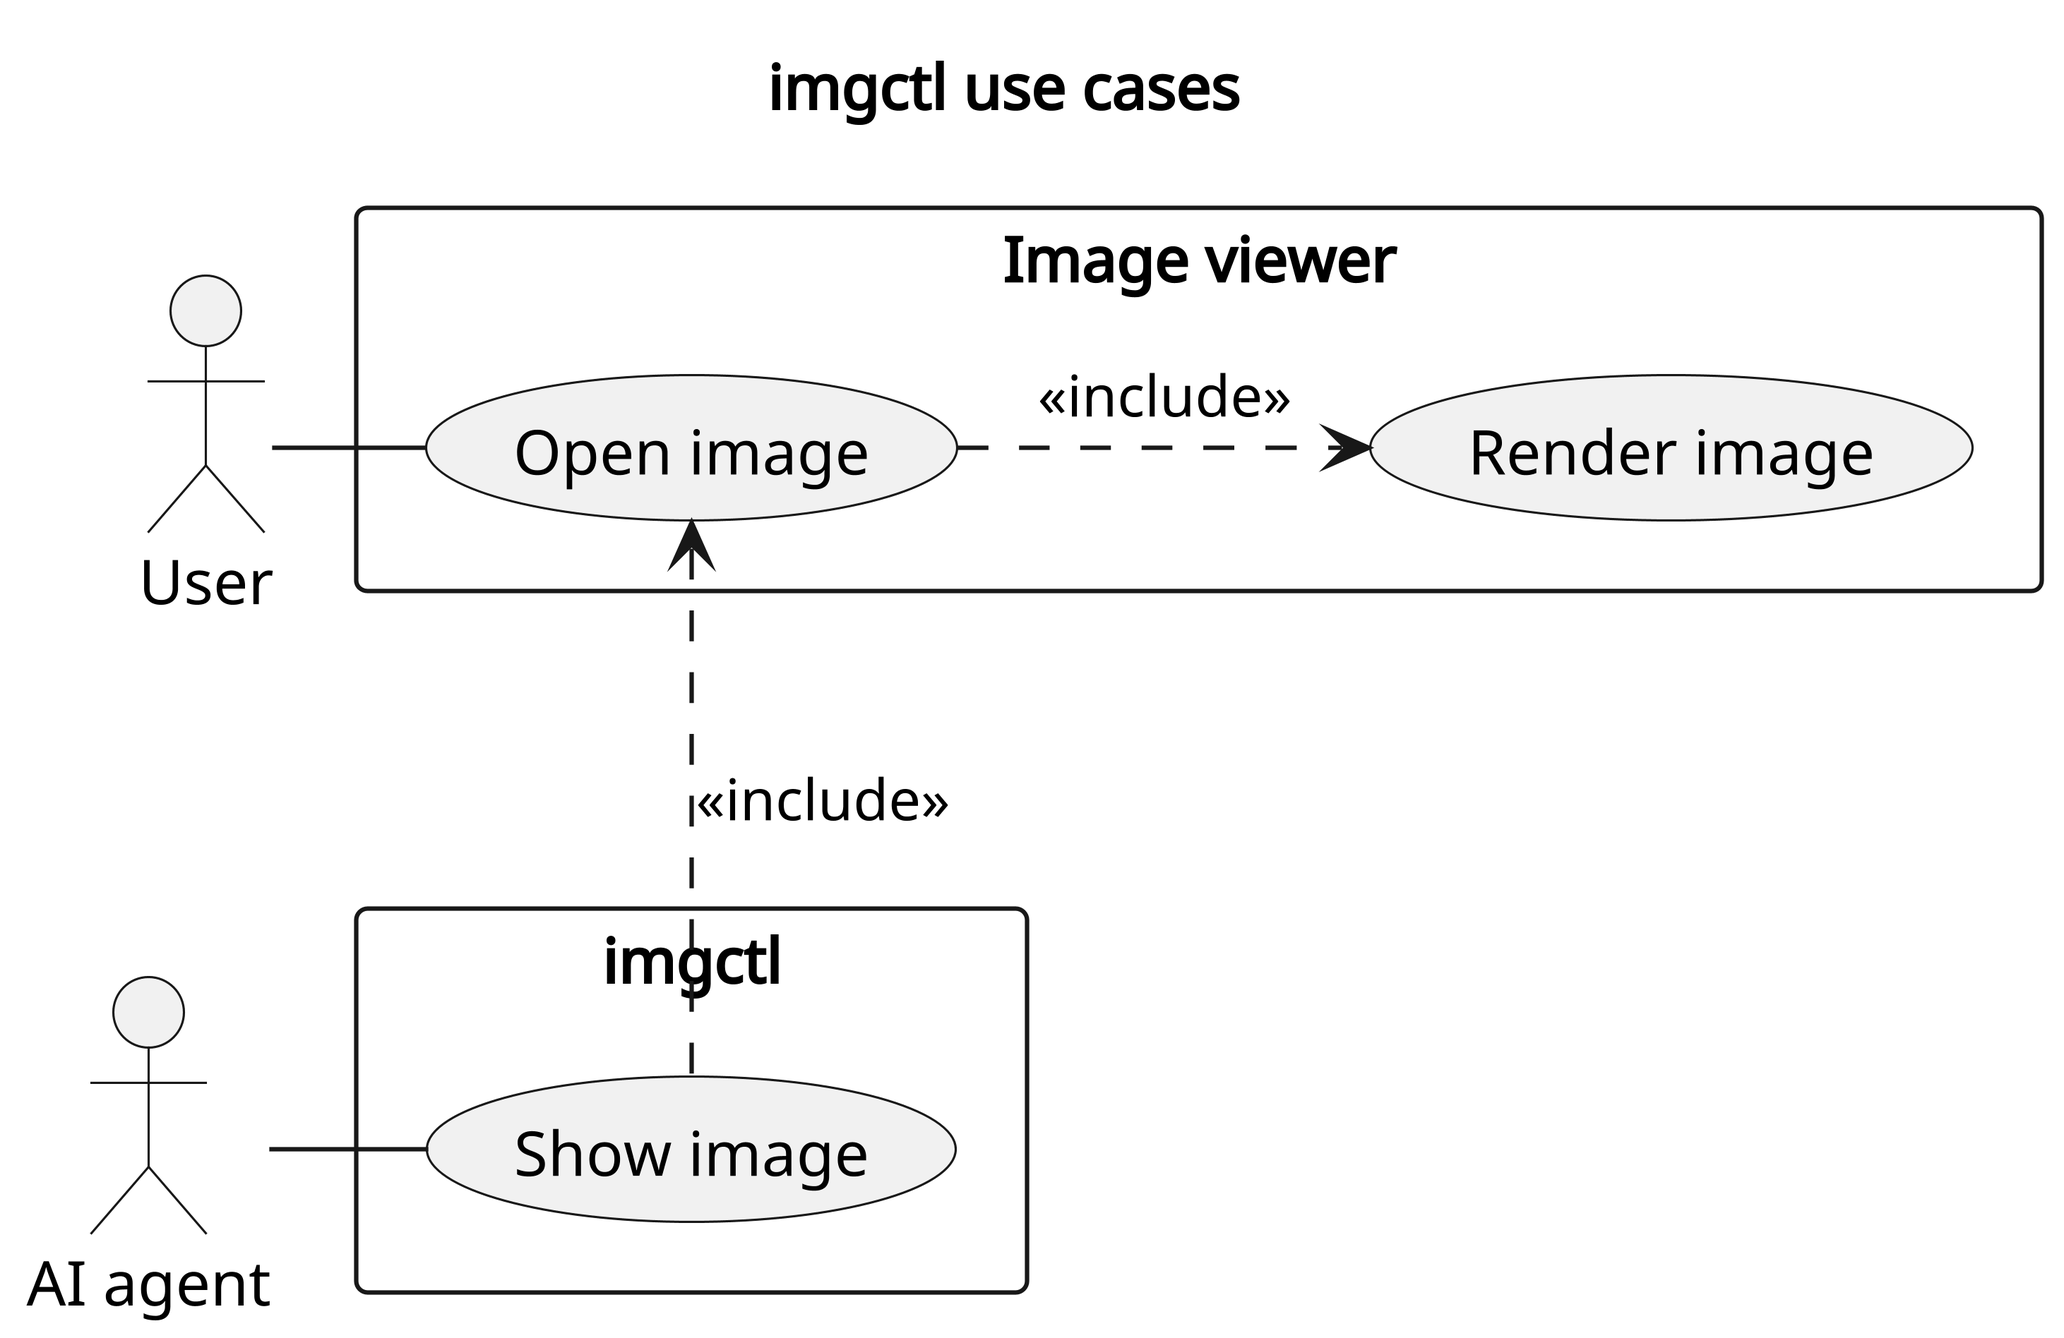
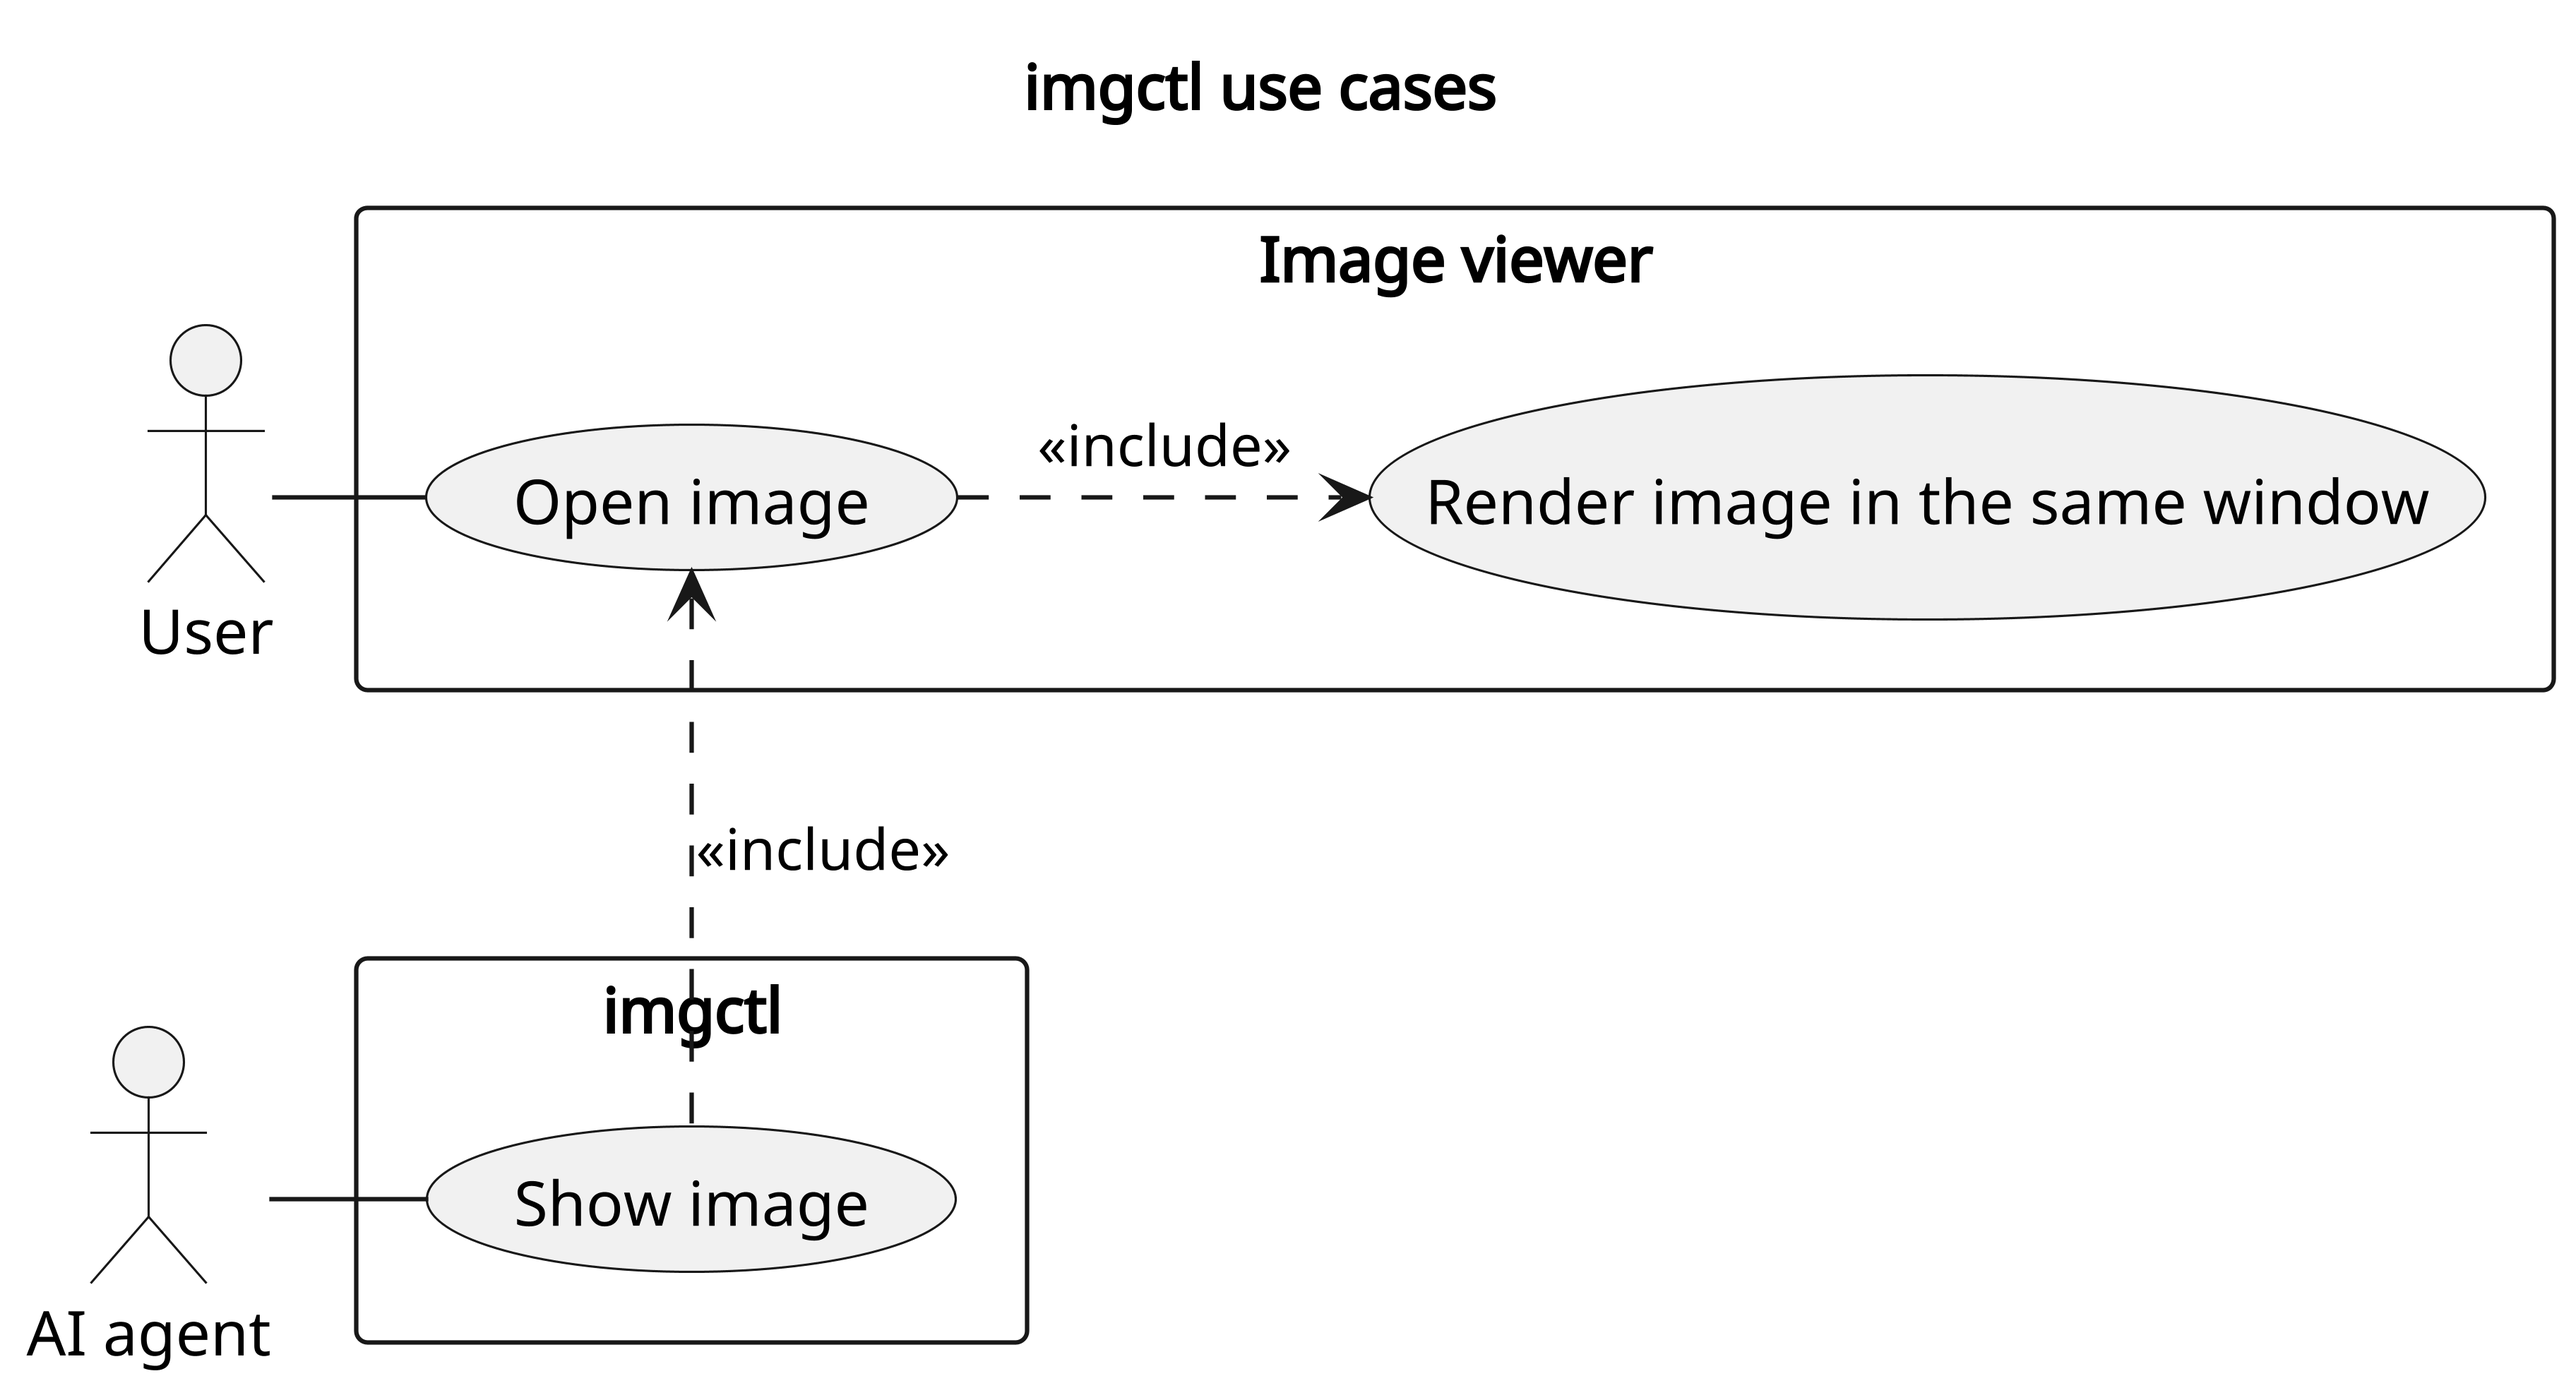
feat: show images in the running okular instance with --unique
Replace the kill-and-relaunch prototype with okular --unique, so the
image opens in the window that is already running.

Also document the project: functional requirements as a decision
table with triggers and responses, a C-3 constraint, a system context
diagram, a vocabulary, indexes for docs, decisions and diagrams, and
learning, regrets and progress logs.

diff --git a/docs/requirements.md b/docs/requirements.md
@@ -1,13 +1,32 @@
 # requirements
 
-Requirements of imgctl, written in EARS. They come from the [use cases](diagrams/use-cases.puml).
+Requirements of imgctl. Functional requirements are written as decision tables; the rest in EARS. They come from the [use cases](diagrams/use-cases.puml).
+
+## triggers
+
+- **Show image** — the AI agent requests to show an image.
+
+## responses
+
+- **Open image** — imgctl opens the image in the image viewer.
+- **Replace image** — imgctl replaces the open image with the requested image.
+- **Report error** — imgctl reports an error to the AI agent.
 
 ## functional
 
-- **FR-1** — WHEN the AI agent requests to show an image, imgctl SHALL open the image in the image viewer.
-- **FR-2** — IF the requested image file does not exist, THEN imgctl SHALL report an error to the AI agent.
-- **FR-3** — IF the requested file is not an image that the image viewer can render, THEN imgctl SHALL report an error to the AI agent.
-- **FR-4** — IF the image viewer cannot be opened, THEN imgctl SHALL report an error to the AI agent.
+### FE-1 — Show image
+
+As a terminal AI agent, I want to show images to the user, so that they don't have to open them manually.
+
+| ID   | Trigger    | File exists | Viewer can render it | Viewer can be opened | Viewer has an image open | Response      |
+| ---- | ---------- | ----------- | -------------------- | -------------------- | ------------------------ | ------------- |
+| FR-1 | Show image | Y           | Y                    | Y                    | N                        | Open image    |
+| FR-2 | Show image | Y           | Y                    | Y                    | Y                        | Replace image |
+| FR-3 | Show image | N           | –                    | –                    | –                        | Report error  |
+| FR-4 | Show image | Y           | N                    | –                    | –                        | Report error  |
+| FR-5 | Show image | Y           | Y                    | N                    | –                        | Report error  |
+
+`–` means the condition does not matter for that requirement.
 
 ## non-functional
 
@@ -17,3 +36,7 @@ Requirements of imgctl, written in EARS. They come from the [use cases](diagrams
 
 - **C-1** — imgctl SHALL run on Linux.
 - **C-2** — imgctl SHALL be compatible with Okular as the image viewer.
+- **C-3** — imgctl SHALL delegate image rendering to an external image viewer program.
+
+## Related artifacts
+- 

diff --git a/README.md b/README.md
@@ -1,1 +1,55 @@
 # imgctl
+
+[use cases](#use-cases) · [prerequisites](#prerequisites) · [install](#install) · [docs](#docs) · [development](#development)
+
+[what imgctl is, in one short line.]
+
+- **[feature]** — [what it does for you, in one or two sentences.]
+- **[feature]** — [what it does for you, in one or two sentences.]
+- **[feature]** — [what it does for you, in one or two sentences.]
+- **[feature]** — [what it does for you, in one or two sentences.]
+
+## use cases
+
+![imgctl use cases](docs/diagrams/use-cases.png)
+
+## prerequisites
+
+- [what must be installed first, and the minimum version]
+- [what must be installed first, and the minimum version]
+
+## install
+
+```sh
+[install command]
+```
+
+or [other ways to install, separated by ·]
+
+then start it where the work lives:
+
+```sh
+imgctl
+```
+
+[what to do first, and how to stop.]
+
+## docs
+
+everything lives in [docs/](docs/): [requirements](docs/requirements.md) · [decisions](docs/decisions/)
+
+decisions:
+
+- [ADR-001: Programming Language](docs/decisions/ADR-001-programming-language.md)
+- [ADR-002: No MCP](docs/decisions/ADR-002-no-mcp.md)
+
+## development
+
+```sh
+git clone https://github.com/prapoju/imgctl
+cd imgctl
+[build command]
+
+[test command]    # unit tests
+[check command]   # formatting, tests, and maintenance checks
+```

diff --git a/docs/vocabulary.md b/docs/vocabulary.md
@@ -1,0 +1,10 @@
+# vocabulary
+
+Names used in the architecture diagrams. Use them exactly as written.
+
+| Name         | Kind            | Meaning                                                                 |
+| ------------ | --------------- | ----------------------------------------------------------------------- |
+| imgctl       | System in scope | Shows images to the user when the AI agent asks for it.            |
+| User         | Person          | Works in the terminal with an AI agent and looks at the images it shows. |
+| AI agent     | External system | Terminal AI agent, such as Claude Code, that asks imgctl to show images. |
+| Image viewer | External system | Program that renders the images, such as Okular.                         |

diff --git a/docs/diagrams/README.md b/docs/diagrams/README.md
@@ -1,0 +1,7 @@
+# diagrams
+
+
+| Diagram                                | Source                                       | Shows                                              |
+| -------------------------------------- | -------------------------------------------- | -------------------------------------------------- |
+| [use cases](use-cases.png)             | [use-cases.puml](use-cases.puml)             | What the user and the AI agent do with imgctl.     |
+| [system context](system-context.png)   | [system-context.puml](system-context.puml)   | imgctl, its user, and the systems around it.       |

diff --git a/docs/decisions/README.md b/docs/decisions/README.md
@@ -1,0 +1,6 @@
+# decisions
+
+| ADR                                             | Title                | Status   |
+| ----------------------------------------------- | -------------------- | -------- |
+| [ADR-001](ADR-001-programming-language.md)      | Programming Language | proposed |
+| [ADR-002](ADR-002-no-mcp.md)                    | No MCP               | proposed |

diff --git a/docs/README.md b/docs/README.md
@@ -1,0 +1,7 @@
+# docs
+
+- [vocabulary](vocabulary.md) — names used in the documentation.
+- [requirements](requirements.md) — what imgctl must do
+- [decisions](decisions/README.md) — architecture decision records.
+- [diagrams](diagrams/README.md) — 
+- [logs](logs/README.md) — what I learned and what I regret.

diff --git a/docs/logs/README.md b/docs/logs/README.md
@@ -1,0 +1,5 @@
+# logs
+
+- [learning](learning.md) — what I learned while building imgctl.
+- [regrets](regrets.md) — things I would do differently.
+- [progress](progress.md) — which requirements each commit meets.

diff --git a/docs/logs/learning.md b/docs/logs/learning.md
@@ -1,0 +1,2 @@
+# learning
+

diff --git a/docs/logs/progress.md b/docs/logs/progress.md
@@ -1,0 +1,2 @@
+# progress
+

diff --git a/docs/logs/regrets.md b/docs/logs/regrets.md
@@ -1,0 +1,2 @@
+# regrets
+
